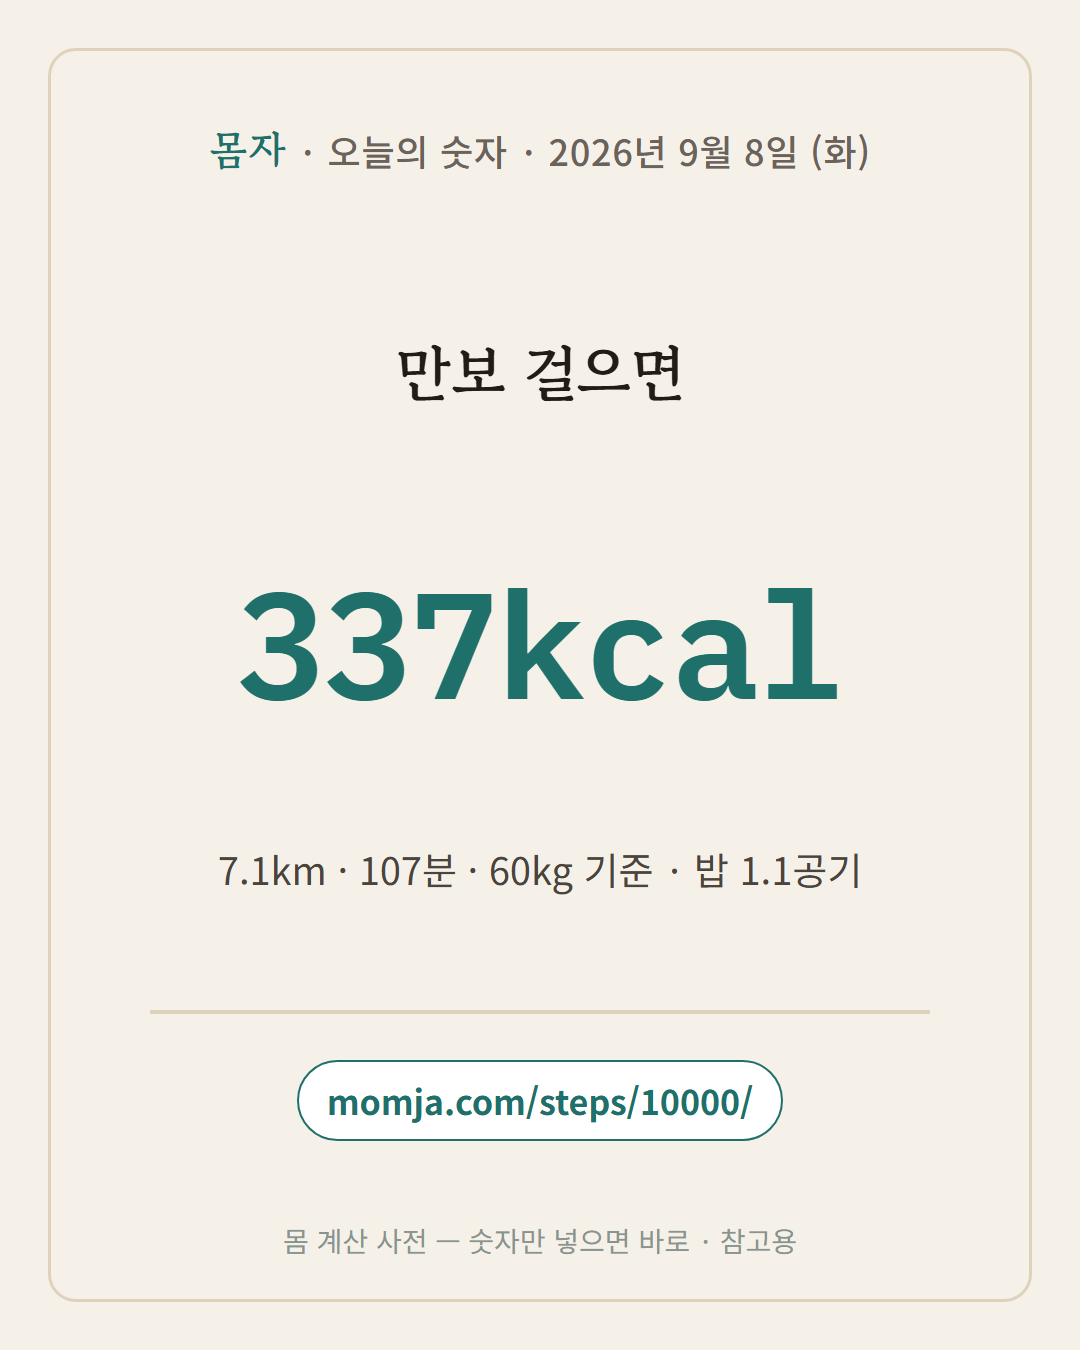
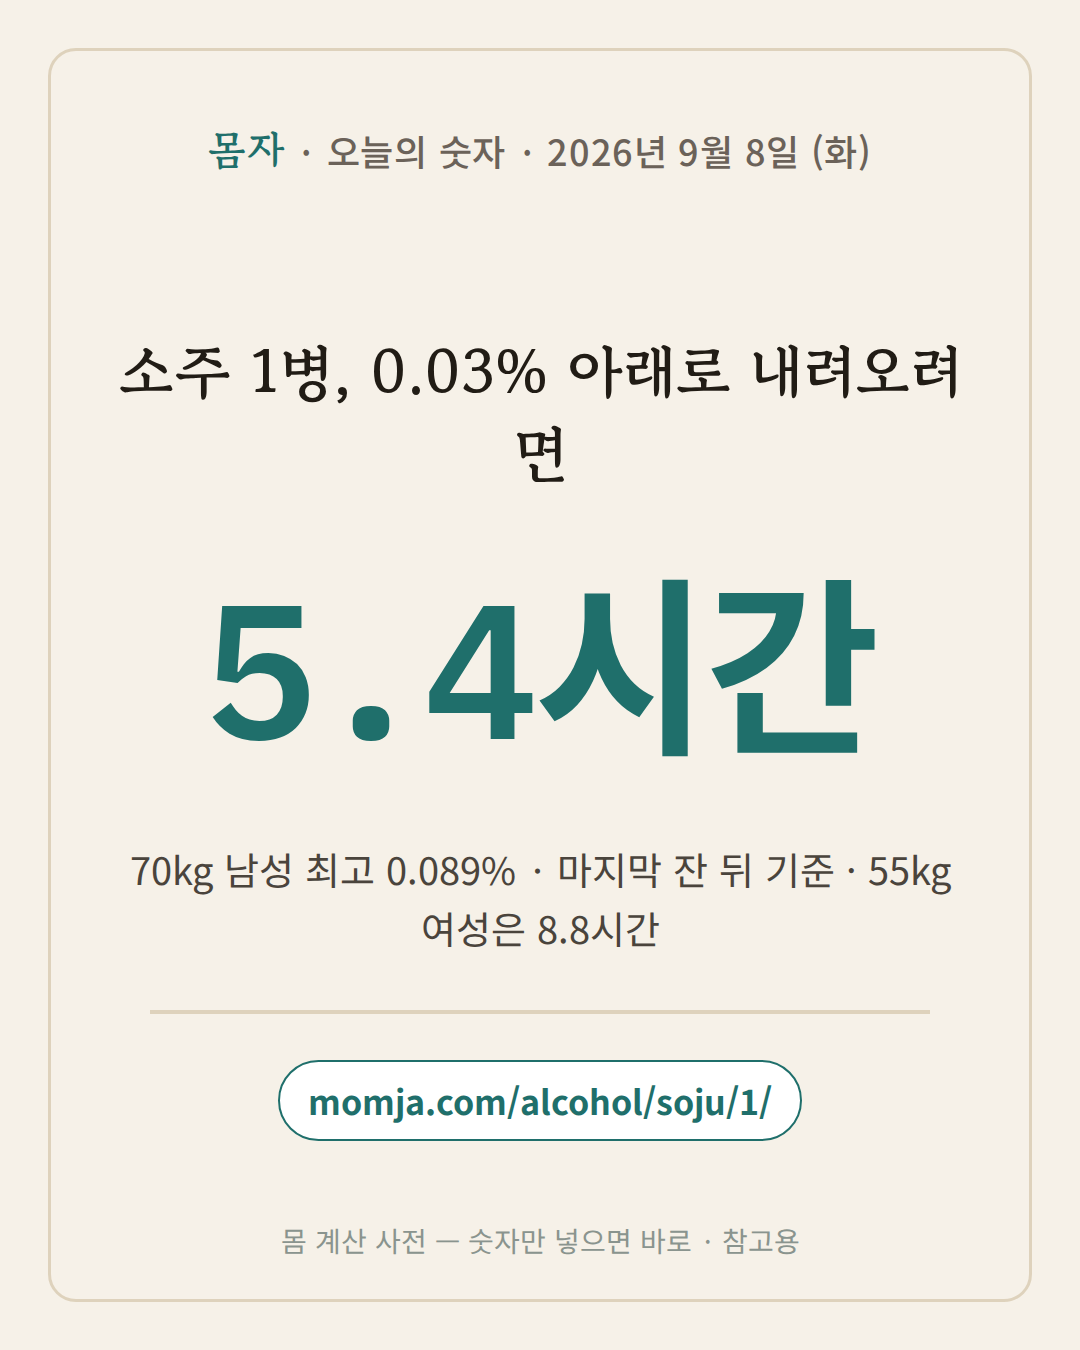
오늘의 숫자 카드 2026-09-08

diff --git a/src/cards/latest.html b/src/cards/latest.html
@@ -8,7 +8,7 @@ html,body{margin:0;background:#ddd}
 .top{position:absolute;top:120px;left:0;right:0;text-align:center;font-size:36px;color:#6B6259;font-weight:500;letter-spacing:.02em}
 .top b{color:#1F6F6B;font-family:"Gowun Batang",serif;font-size:40px;font-weight:700}
 .label{position:absolute;top:330px;left:100px;right:100px;text-align:center;font-family:"Gowun Batang",serif;font-size:60px;line-height:1.35;font-weight:700;color:#211C15}
-.big{position:absolute;top:560px;left:60px;right:60px;text-align:center;font-family:"IBM Plex Mono","Noto Sans KR",monospace;font-weight:600;font-size:150px;line-height:1.1;color:#1F6F6B;letter-spacing:-.02em}
+.big{position:absolute;top:560px;left:60px;right:60px;text-align:center;font-family:"IBM Plex Mono","Noto Sans KR",monospace;font-weight:600;font-size:190px;line-height:1.1;color:#1F6F6B;letter-spacing:-.02em}
 .sub{position:absolute;top:840px;left:110px;right:110px;text-align:center;font-size:38px;line-height:1.55;color:#4A443C}
 .bar{position:absolute;top:1010px;left:150px;right:150px;height:4px;background:#DED2BC}
 .url{position:absolute;top:1060px;left:0;right:0;text-align:center;font-size:34px;color:#1F6F6B;font-weight:700}
@@ -17,10 +17,10 @@ html,body{margin:0;background:#ddd}
 </style></head><body><div id="card">
 <div class="frame"></div>
 <div class="top"><b>몸자</b> · 오늘의 숫자 · 2026년 9월 8일 (화)</div>
-<div class="label">만보 걸으면</div>
-<div class="big">337kcal</div>
-<div class="sub">7.1km · 107분 · 60kg 기준 · 밥 1.1공기</div>
+<div class="label">소주 1병, 0.03% 아래로 내려오려면</div>
+<div class="big">5.4시간</div>
+<div class="sub">70kg 남성 최고 0.089% · 마지막 잔 뒤 기준 · 55kg 여성은 8.8시간</div>
 <div class="bar"></div>
-<div class="url"><span>momja.com/steps/10000/</span></div>
+<div class="url"><span>momja.com/alcohol/soju/1/</span></div>
 <div class="foot">몸 계산 사전 — 숫자만 넣으면 바로 · 참고용</div>
 </div></body></html>
